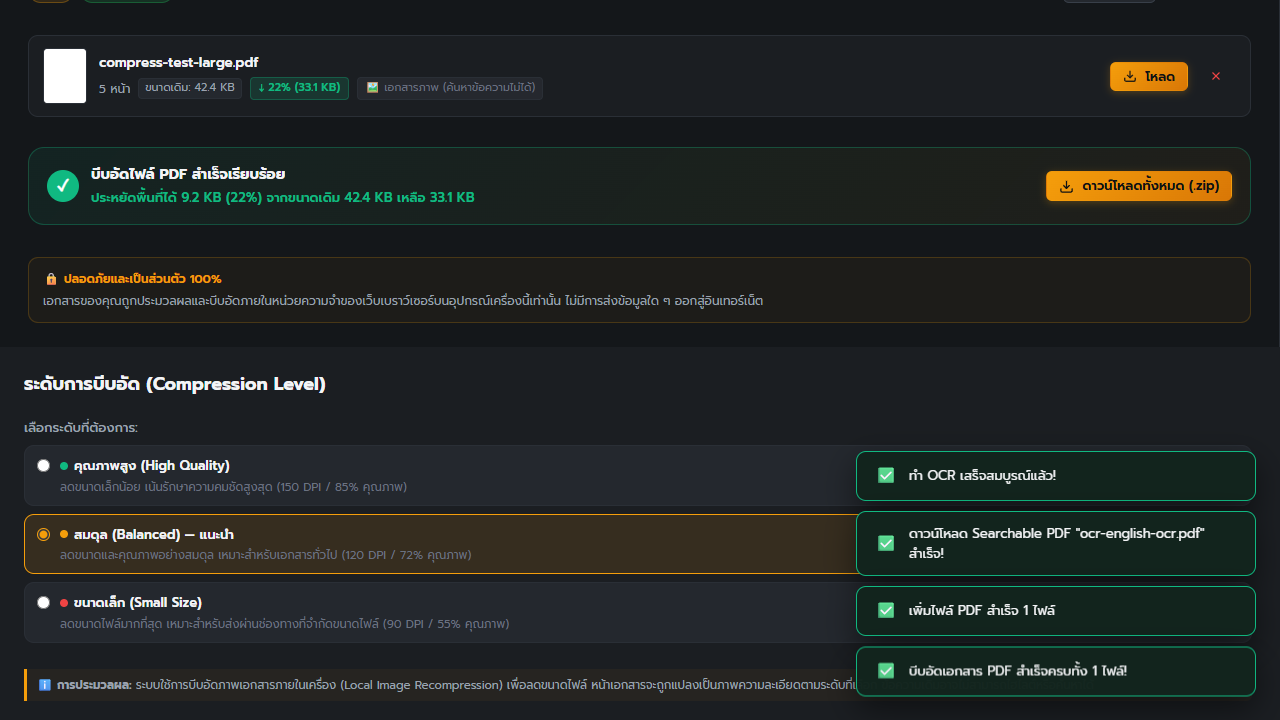
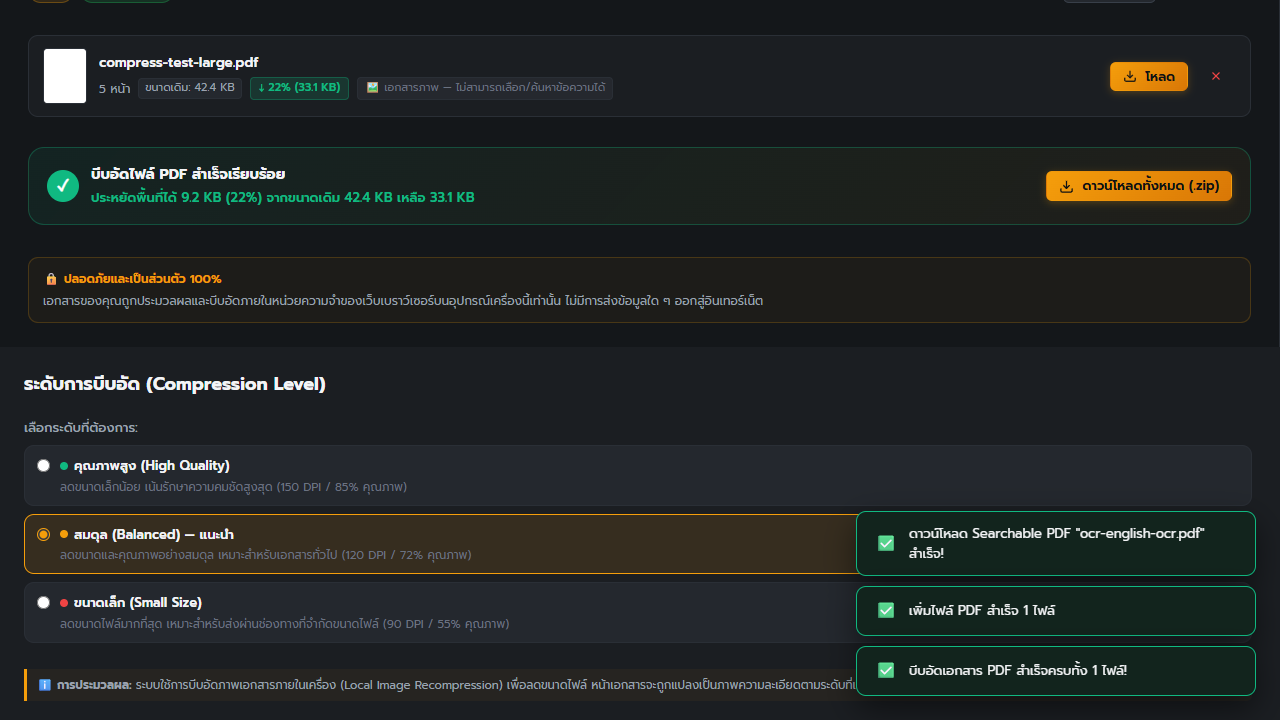
fix(compress-pdf): align non-searchable badge string and verify text layer consistency across real browser tests

Changed region(s): [[0.3438, 0.0917, 0.4688, 0.1528], [0.6875, 0.9167, 0.875, 0.9472], [0.6875, 0.6417, 0.8438, 0.6722]]

diff --git a/pdf-tools.js b/pdf-tools.js
@@ -2538,7 +2538,7 @@
           if (item.hasText) {
             textStatusBadgeHtml = `<span class="badge-text-status badge-text-searchable" title="เอกสารมีข้อความที่สามารถเลือกหรือค้นหาได้">📄 ข้อความยังเลือก/ค้นหาได้</span>`;
           } else {
-            textStatusBadgeHtml = `<span class="badge-text-status badge-text-rasterized" title="เอกสารถูกแปลงเป็นภาพ ข้อความจึงไม่สามารถเลือกหรือค้นหาได้">🖼 เอกสารภาพ (ค้นหาข้อความไม่ได้)</span>`;
+            textStatusBadgeHtml = `<span class="badge-text-status badge-text-rasterized" title="เอกสารถูกแปลงเป็นภาพ ข้อความจึงไม่สามารถเลือกหรือค้นหาได้">🖼 เอกสารภาพ — ไม่สามารถเลือก/ค้นหาข้อความได้</span>`;
           }
         }
 

diff --git a/test-suite.js b/test-suite.js
@@ -1135,7 +1135,7 @@ async function runTests() {
     );
 
     record('Compress PDF 8: Text searchability verified (correctly flags rasterized PDF as non-searchable)',
-      compPdfResult.hasTextState === false && compPdfResult.textStatusBadge.includes('ค้นหาข้อความไม่ได้'),
+      compPdfResult.hasTextState === false && compPdfResult.textStatusBadge.includes('ไม่สามารถเลือก/ค้นหาข้อความได้'),
       `hasText: ${compPdfResult.hasTextState}, Badge: "${compPdfResult.textStatusBadge}"`
     );
 
